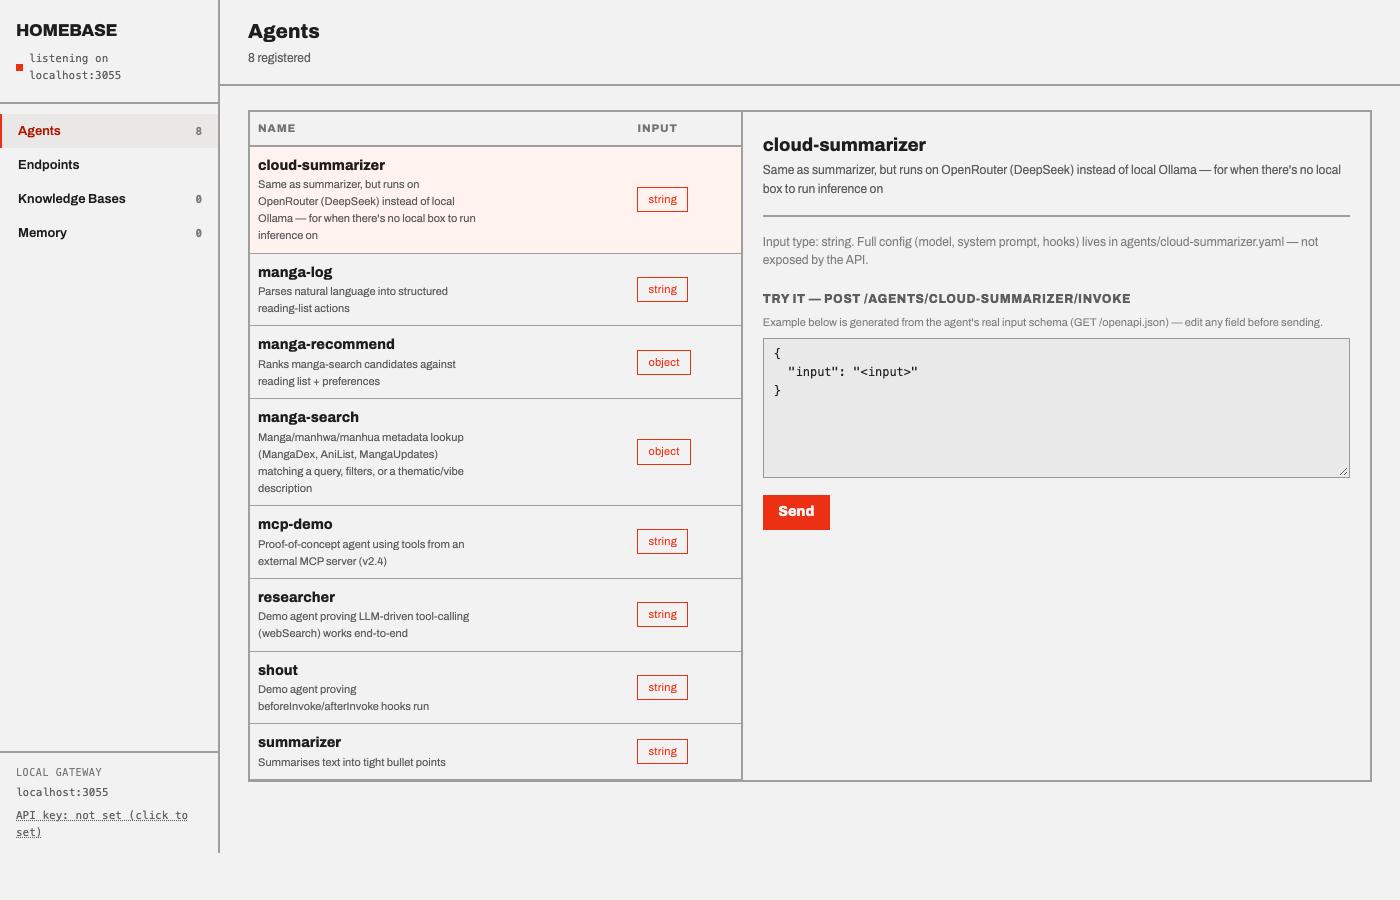
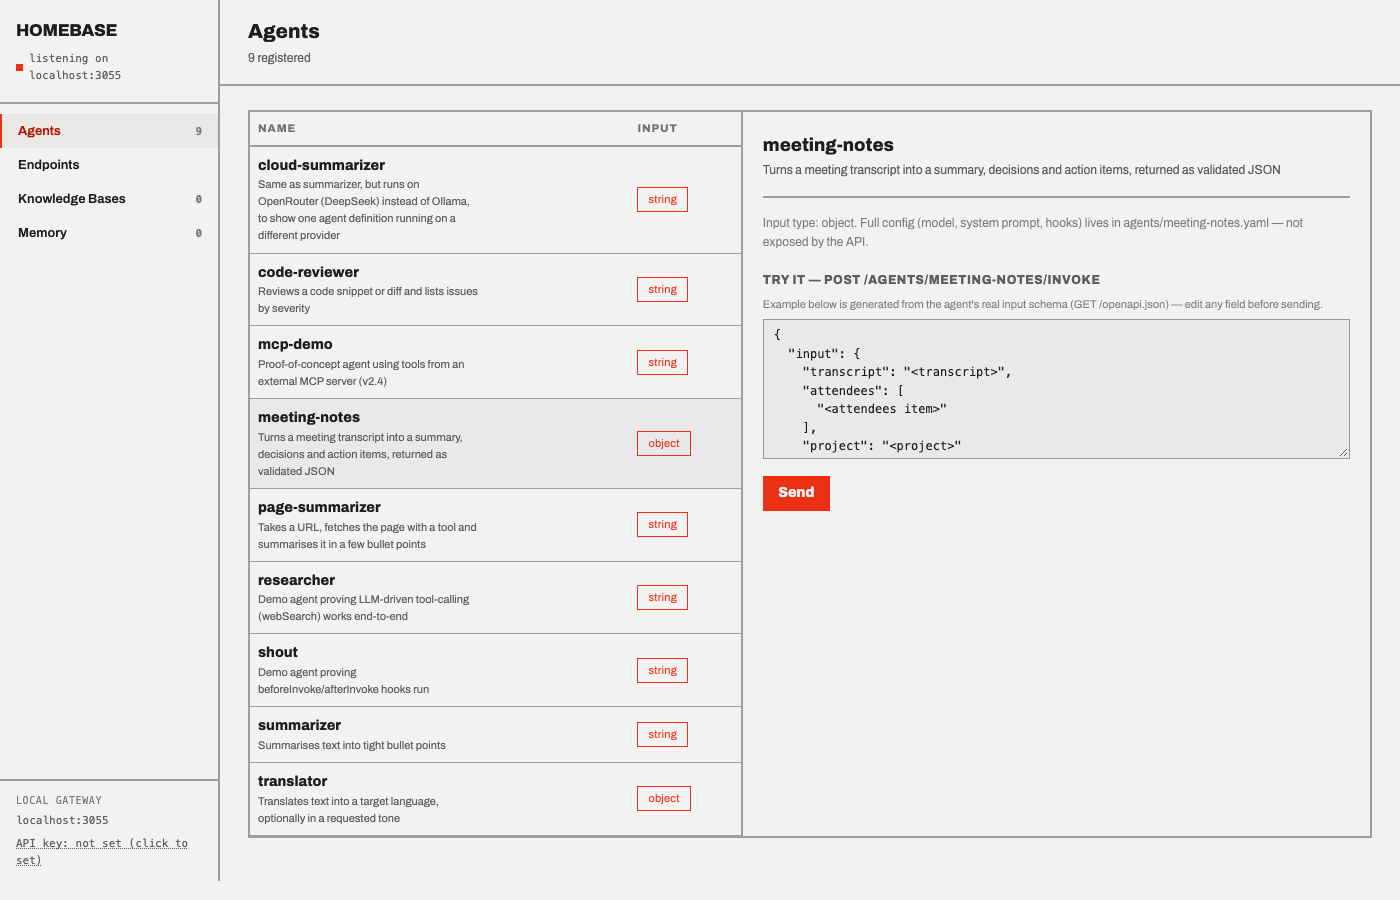
Move manga agents to examples/ and add general-purpose demo agents
Adds translator, code-reviewer, meeting-notes (with a validated-JSON
afterInvoke hook and tests) and page-summarizer (tool-calling). The manga
agents and their tool now live in examples/manga as a worked example of a
real app built on Homebase. Docs, README and the dashboard screenshot are
updated to match.

diff --git a/src/config.test.ts b/src/config.test.ts
@@ -38,7 +38,7 @@ describe("inputPayloadSchema — type: messages", () => {
 });
 
 describe("inputPayloadSchema — type: object, flat shorthand", () => {
-  // Real shape from agents/manga-search.yaml
+  // Real shape from examples/manga/manga-search.yaml
   const schema = inputPayloadSchema({
     type: "object",
     shape: { query: "string", genre: "string", format: "string", limit: "number" },
@@ -145,7 +145,7 @@ describe("inputPayloadSchema — type: object, array-of-object field", () => {
 });
 
 describe("inputPayloadSchema — deeply nested: array of object containing another array", () => {
-  // Real shape from agents/manga-recommend.yaml's `candidates` field.
+  // Real shape from examples/manga/manga-recommend.yaml's `candidates` field.
   const schema = inputPayloadSchema({
     type: "object",
     shape: {
@@ -177,7 +177,7 @@ describe("inputPayloadSchema — deeply nested: array of object containing anoth
   });
 });
 
-describe("inputPayloadSchema — real fixture: agents/manga-recommend.yaml's full shape", () => {
+describe("inputPayloadSchema — real fixture: examples/manga/manga-recommend.yaml's full shape", () => {
   const shape: NonNullable<Extract<AgentConfig["input"], { type: "object" }>["shape"]> = {
     query: "string",
     candidates: {

diff --git a/tools/fetchPageText.ts b/tools/fetchPageText.ts
@@ -3,7 +3,7 @@ import { z } from "zod";
 
 const MAX_CHARS = 8000;
 
-/** Crude HTML-to-text: strips script/style blocks, tags, and collapses whitespace. Good enough for T&Cs pages — not a real readability extractor. */
+/** Crude HTML-to-text: strips script/style blocks, tags, and collapses whitespace. Good enough for simple pages — not a real readability extractor. */
 const stripHtml = (html: string): string =>
   html
     .replace(/<script[\s\S]*?<\/script>/gi, " ")
@@ -15,9 +15,9 @@ const stripHtml = (html: string): string =>
     .trim();
 
 /**
- * Generic URL-to-text tool — no domain awareness, unlike tools/mangaMetadataSearch.ts. Used by
+ * Generic URL-to-text tool — no domain awareness, unlike the domain-specific tools in examples/. Used by
  * agents that should accept a URL instead of pasted text. Truncates long
- * pages (T&Cs pages are usually short; this is a safety cap, not a real limit in practice).
+ * pages (this is a safety cap against huge pages, not a precise limit).
  */
 export const fetchPageText = tool({
   description: "Fetches a URL and returns its visible page text (HTML stripped), truncated to a safe length.",

diff --git a/agents/meeting-notes.hooks.test.ts b/agents/meeting-notes.hooks.test.ts
@@ -1,0 +1,27 @@
+import { describe, expect, it } from "vitest";
+import { validateNotes } from "./meeting-notes.hooks.js";
+
+const valid = {
+  summary: "Agreed to ship on Friday.",
+  decisions: ["Ship on Friday"],
+  actionItems: [{ owner: "Sam", task: "Cut the release", due: null }],
+};
+
+describe("meeting-notes afterInvoke (validateNotes)", () => {
+  it("returns well-formed notes as compact JSON", () => {
+    expect(JSON.parse(validateNotes(JSON.stringify(valid, null, 2)))).toEqual(valid);
+  });
+
+  it("strips a code fence the model added around the JSON", () => {
+    const fenced = "```json\n" + JSON.stringify(valid) + "\n```";
+    expect(JSON.parse(validateNotes(fenced))).toEqual(valid);
+  });
+
+  it("throws on JSON that does not match the contract", () => {
+    expect(() => validateNotes(JSON.stringify({ summary: "x" }))).toThrow();
+  });
+
+  it("throws on output that is not JSON", () => {
+    expect(() => validateNotes("Here are your notes!")).toThrow();
+  });
+});

diff --git a/agents/meeting-notes.hooks.ts b/agents/meeting-notes.hooks.ts
@@ -1,0 +1,29 @@
+import { z } from "zod";
+
+const notesSchema = z.object({
+  summary: z.string(),
+  decisions: z.array(z.string()),
+  actionItems: z.array(
+    z.object({
+      owner: z.string(),
+      task: z.string(),
+      due: z.string().nullable(),
+    }),
+  ),
+});
+
+/**
+ * Homebase does no schema validation on an agent's raw text output, so an
+ * agent whose contract is "valid JSON of this shape" checks it here. Models
+ * sometimes wrap JSON in a code fence; strip that, then parse and validate.
+ * A failure throws, which surfaces as a clean 500 (HookError) instead of
+ * handing the caller output that doesn't match the contract.
+ */
+export const validateNotes = (output: string): string => {
+  const text = output.trim().replace(/^```(?:json)?\s*/i, "").replace(/\s*```$/, "");
+  return JSON.stringify(notesSchema.parse(JSON.parse(text)));
+};
+
+export default {
+  afterInvoke: validateNotes,
+};

diff --git a/examples/manga/manga-recommend.hooks.ts b/examples/manga/manga-recommend.hooks.ts
@@ -1,4 +1,4 @@
-import type { InvokeContext } from "../src/hooks.js";
+import type { InvokeContext } from "../../src/hooks.js";
 
 interface RankedCandidate {
   title?: unknown;
@@ -6,10 +6,10 @@ interface RankedCandidate {
 }
 
 /**
- * Deterministic backstop for the reading-list exclusion ticket: qwen2.5:14b
+ * Deterministic backstop for the reading-list exclusion rule: qwen2.5:14b
  * doesn't reliably comply with "never include a candidate already in
  * readingList" from prompting alone (reproduced 0/8 across two different
- * prompt strategies — see the ticket). Rather than keep chasing prompt
+ * prompt strategies). Rather than keep chasing prompt
  * wording, afterInvoke strips any readingList match out of the model's
  * output after the fact — the model still does the actual ranking/scoring
  * (it's fine at that part), this just guarantees the hard constraint holds

diff --git a/examples/manga/manga-recommend.hooks.test.ts b/examples/manga/manga-recommend.hooks.test.ts
@@ -1,5 +1,5 @@
 import { describe, expect, it } from "vitest";
-import type { InvokeContext } from "../src/hooks.js";
+import type { InvokeContext } from "../../src/hooks.js";
 import hooks from "./manga-recommend.hooks.js";
 
 const ctx = (readingList: { title: string }[]): InvokeContext =>

diff --git a/examples/manga/manga-search.hooks.ts b/examples/manga/manga-search.hooks.ts
@@ -1,0 +1,5 @@
+import { mangaMetadataSearch } from "./tools/mangaMetadataSearch.js";
+
+export default {
+  tools: { mangaMetadataSearch },
+};

diff --git a/agents/page-summarizer.hooks.ts b/agents/page-summarizer.hooks.ts
@@ -1,0 +1,5 @@
+import { fetchPageText } from "../tools/fetchPageText.js";
+
+export default {
+  tools: { fetchPageText },
+};

diff --git a/docs/tools-and-hooks.md b/docs/tools-and-hooks.md
@@ -27,9 +27,9 @@ Runs after input validation, before the input is turned into model messages. Ret
 
 Runs on the model's full text output, **plain (non-streaming) path only** — see `docs/invoke.md` for why streaming skips it. Return value replaces the response's `output` field.
 
-**Pattern: deterministic backstop for a constraint the model won't reliably follow.** Small local models don't always comply with hard constraints from prompting alone, even with an explicit rule and a worked example — `agents/manga-recommend.hooks.ts` is a live example: the system prompt tells the model to never output a candidate already in the user's reading list, but that alone measured 0/8 compliance on a repeatable test case. Rather than keep tuning the prompt, `afterInvoke` parses the model's JSON output (using `ctx.input` to see the original `readingList`) and deterministically strips any match — the model still does the actual ranking/scoring, the hook just guarantees the hard constraint holds regardless of what the model does. Worth reaching for whenever a constraint is easy to check in code but unreliable to enforce purely through prompting.
+**Pattern: deterministic backstop for a constraint the model won't reliably follow.** Small local models don't always comply with hard constraints from prompting alone, even with an explicit rule and a worked example — `examples/manga/manga-recommend.hooks.ts` is a live example: the system prompt tells the model to never output a candidate already in the user's reading list, but that alone measured 0/8 compliance on a repeatable test case. Rather than keep tuning the prompt, `afterInvoke` parses the model's JSON output (using `ctx.input` to see the original `readingList`) and deterministically strips any match — the model still does the actual ranking/scoring, the hook just guarantees the hard constraint holds regardless of what the model does. Worth reaching for whenever a constraint is easy to check in code but unreliable to enforce purely through prompting.
 
-**Pattern: validating a JSON-output agent's shape.** Homebase itself does no schema validation or retry on an agent's raw text output (a deliberate scope decision — see the "structured-output validation" ticket's design doc: no genuine malformed-JSON failure has actually been observed, only semantic ones like the exclusion bug above, which retrying wouldn't fix anyway). If an agent's contract depends on valid JSON matching a specific shape, validate it in `afterInvoke` — parse, check against a Zod schema, throw on failure:
+**Pattern: validating a JSON-output agent's shape.** Homebase itself does no schema validation or retry on an agent's raw text output (a deliberate scope decision: no genuine malformed-JSON failure has been observed, only semantic ones like the exclusion bug above, which retrying wouldn't fix anyway). If an agent's contract depends on valid JSON matching a specific shape, validate it in `afterInvoke` — parse, check against a Zod schema, throw on failure:
 
 ```ts
 const outputSchema = z.array(z.object({ action: z.string(), title: z.string(), /* ... */ }));
@@ -67,8 +67,8 @@ Two behavioral consequences of declaring `tools`, both driven from `src/provider
 
 ```
 tools/
-├── webSearch.ts           # generic DuckDuckGo-backed search — agents/researcher.yaml
-└── mangaMetadataSearch.ts # manga/manhwa/manhua metadata (MangaDex, AniList, MangaUpdates) — agents/manga-search.yaml
+├── webSearch.ts      # generic DuckDuckGo-backed search — agents/researcher.yaml
+└── fetchPageText.ts  # fetch a URL and return its visible text — agents/page-summarizer.yaml
 ```
 
 Any agent's `hooks.ts` can import any file in `tools/` — there's no per-agent tool registration beyond the import.
@@ -83,16 +83,11 @@ export const webSearch = tool({
 });
 ```
 
-**Known limitation:** DuckDuckGo's Instant Answer API is sparse for anything outside broad encyclopedic topics (it often returns no abstract text for niche or specific queries, and never returns a source URL) — and its HTML search endpoint (a tempting keyless alternative) hard-blocks with a 403 after a single request, so it's not a viable swap either. Fine for `researcher`'s demo purpose; **not** a good fit for anything needing real, domain-specific grounding — see `tools/mangaMetadataSearch.ts` below for how `manga-search` moved off it.
+**Known limitation:** DuckDuckGo's Instant Answer API is sparse for anything outside broad encyclopedic topics (it often returns no abstract text for niche or specific queries, and never returns a source URL) — and its HTML search endpoint (a tempting keyless alternative) hard-blocks with a 403 after a single request, so it's not a viable swap either. Fine for `researcher`'s demo purpose; **not** a good fit for anything needing real, domain-specific grounding — see `examples/manga/tools/mangaMetadataSearch.ts` for how a domain-specific agent moved off it.
 
-**`tools/mangaMetadataSearch.ts`**: purpose-built replacement for `manga-search`, after `webSearch` was confirmed both non-functional (DuckDuckGo returning empty responses in practice) and a poor fit even when working (no manga/anime awareness). Three sources, tried in order until one returns results:
-1. [MangaDex](https://api.mangadex.org) — strongest niche/indie coverage, title-matched search.
-2. [AniList](https://graphql.anilist.co) — broader mainstream coverage, also title-matched.
-3. [MangaUpdates](https://api.mangaupdates.com) — full-text search over descriptions, not titles. This is the one that actually answers thematic/vibe queries ("villainess otome revenge") that title-only matching misses entirely — added after that exact gap was found and confirmed via direct API calls. No content-rating filter exists on this endpoint (unlike MangaDex's), so explicit results are excluded by genre tag instead, to keep this source at the same content bar as the other two. Its pagination parameter (`perpage`) is also silently ignored by the live API (confirmed empirically) — results are truncated client-side instead.
+**A domain-specific tool.** `examples/manga/tools/mangaMetadataSearch.ts` is a purpose-built replacement for `webSearch` for one agent. It queries three public sources (MangaDex, AniList and MangaUpdates) in order until one returns results, and normalises their different status and format vocabularies into one shape, so the agent's prompt doesn't need to know which backend answered. It is a good template for "the generic tool doesn't fit this domain, so build a purpose-built one".
 
-All three sources' differing status vocabularies (`ongoing`/`hiatus`/... vs `RELEASING`/`HIATUS`/...) and format signals (origin language/country vs. a direct format field) are normalized inside the tool into one `format`/`status` shape, so the calling agent's system prompt doesn't need to know which backend actually answered. Cover art (`coverUrl`) is extracted from MangaDex and AniList; MangaUpdates provides it natively. A good template for "generic tool doesn't fit this agent's domain" — build (or find) a purpose-built one instead of stretching the generic tool further.
-
-**Known model-behavior quirk observed during testing:** on rare occasions, especially in a multi-step tool-call loop against a query with no real results, the model appears to lose track of the original query partway through — likely `qwen2.5:14b`'s relatively small context window (4096 tokens, per `ollama ps`) getting crowded by several rounds of verbose real tool results. Not something these tools or Homebase's invoke pipeline can fix directly (the tool itself returns correct, verified results every time when called with the actual intended query — confirmed via direct, non-agent testing); flagged here as an observed limitation of small local models under extended tool loops, consistent with the general "model decides whether/how to use tools" unreliability noted above.
+**Limitation of small models.** In a multi-step tool-call loop, small local models can lose track of the original query when several verbose tool results crowd their context window. The tools return correct results when called directly; this is a limit of small models under long tool loops, consistent with the "model decides whether to use tools" caveat above.
 
 ## Adding a new tool
 

diff --git a/docs/rag.md b/docs/rag.md
@@ -4,7 +4,7 @@ Deep reference for the `/kb/*` routes (`src/rag.ts`), added in v2.2 and extended
 
 ## What it's for
 
-Homebase-hosted retrieval: apps create named knowledge bases (e.g. `"manga-kb"`, `"homebase-docs-kb"`), push documents in, and query by similarity search. KBs are namespaced by name — no cross-KB search.
+Homebase-hosted retrieval: apps create named knowledge bases (e.g. `"notes-kb"`, `"homebase-docs-kb"`), push documents in, and query by similarity search. KBs are namespaced by name — no cross-KB search.
 
 ## Storage
 
@@ -25,11 +25,11 @@ curl localhost:3000/kb
 ```
 
 ```json
-{ "kbs": [{ "name": "manga-kb", "embeddingModel": "voyage-4-lite", "dimension": 1024, "documentCount": 12, "chunkCount": 34 }] }
+{ "kbs": [{ "name": "notes-kb", "embeddingModel": "voyage-4-lite", "dimension": 1024, "documentCount": 12, "chunkCount": 34 }] }
 ```
 
 ```bash
-curl -X DELETE localhost:3000/kb/manga-kb
+curl -X DELETE localhost:3000/kb/notes-kb
 # { "deleted": true }
 ```
 
@@ -38,9 +38,9 @@ Drops the KB's dedicated vector table, every document/chunk row, and its `kb_con
 ## Add a document
 
 ```bash
-curl localhost:3000/kb/manga-kb/documents \
+curl localhost:3000/kb/notes-kb/documents \
   -X POST -H 'content-type: application/json' \
-  -d '{"text":"Solo Leveling is a manhwa about...", "metadata":{"title":"Solo Leveling","genre":"action"}}'
+  -d '{"text":"Onboarding guide: how new teammates get set up...", "metadata":{"title":"Onboarding guide","category":"guide"}}'
 ```
 
 ```json
@@ -60,7 +60,7 @@ All of a document's chunks are embedded in **one batched call** (`embedTexts`, s
 ## List documents
 
 ```bash
-curl "localhost:3000/kb/manga-kb/documents?limit=50&offset=0"
+curl "localhost:3000/kb/notes-kb/documents?limit=50&offset=0"
 ```
 
 ```json
@@ -75,9 +75,9 @@ curl "localhost:3000/kb/manga-kb/documents?limit=50&offset=0"
 ## Update a document
 
 ```bash
-curl localhost:3000/kb/manga-kb/documents/1 \
+curl localhost:3000/kb/notes-kb/documents/1 \
   -X PUT -H 'content-type: application/json' \
-  -d '{"text":"...updated synopsis...", "metadata":{"title":"Solo Leveling","genre":"action","status":"completed"}}'
+  -d '{"text":"...updated guide text...", "metadata":{"title":"Onboarding guide","category":"guide","status":"reviewed"}}'
 ```
 
 ```json
@@ -91,7 +91,7 @@ This is the "re-sync a stale entry" path — there's no diffing, an update fully
 ## Delete a document
 
 ```bash
-curl -X DELETE localhost:3000/kb/manga-kb/documents/1
+curl -X DELETE localhost:3000/kb/notes-kb/documents/1
 # { "deleted": true }
 ```
 
@@ -100,9 +100,9 @@ Removes the document row, its chunks, and their vectors. `404` if the KB or docu
 ## Search
 
 ```bash
-curl localhost:3000/kb/manga-kb/search \
+curl localhost:3000/kb/notes-kb/search \
   -X POST -H 'content-type: application/json' \
-  -d '{"query":"strongest hunter leveling system","topK":5,"filter":{"genre":"action"},"maxDistance":0.85}'
+  -d '{"query":"how do I set up my laptop","topK":5,"filter":{"category":"guide"},"maxDistance":0.85}'
 ```
 
 ```json
@@ -111,7 +111,7 @@ curl localhost:3000/kb/manga-kb/search \
 
 - `query` (required)
 - `topK` (optional, default 5, max 500)
-- `filter` (optional): **exact-match** key/value pairs checked against each result's `metadata`, e.g. `{"genre":"action"}`. No range queries, no partial match, no OR — just equality on every key given, and no array-contains (a `genres: string[]` metadata value can't be matched this way — filter client-side on results if you need that). Applied *after* the vector similarity search (sqlite-vec has no notion of metadata).
+- `filter` (optional): **exact-match** key/value pairs checked against each result's `metadata`, e.g. `{"category":"guide"}`. No range queries, no partial match, no OR — just equality on every key given, and no array-contains (a `tags: string[]` metadata value can't be matched this way — filter client-side on results if you need that). Applied *after* the vector similarity search (sqlite-vec has no notion of metadata).
 - `maxDistance` (optional, no default): drops any result whose distance exceeds this. **Why no default**: sqlite-vec's KNN search always returns the `topK` nearest neighbors even when none of them are actually relevant to the query — there's no built-in "not relevant enough" cutoff, so a query with no real matches still returns *something* unless you supply a threshold. What counts as "relevant" is empirical, though — it depends on the embedding model and the KB's actual content, so Homebase doesn't guess one; calibrate by looking at real distances for known-relevant vs. known-irrelevant queries against your own KB. (Earlier calibration numbers came from a different embedding model and no longer apply; recalibrate against your own Voyage-embedded content.)
 
 **Results are always deduplicated to one per document** — the single best (lowest-distance) matching chunk. A document with several chunks that all match a query would otherwise crowd out `topK` with repeats of itself, which was never useful (this used to be something every consumer had to re-solve client-side; now it's Homebase's job). `topK` counts *documents*, not chunks.

diff --git a/README.md b/README.md
@@ -45,8 +45,9 @@ flowchart LR
 
 ```
 src/                core service (server, registry, invoke, providers, rag, memory, mcp, openapi)
-agents/             example agents: YAML + optional hooks
+agents/             built-in agents: YAML + optional hooks (translator, meeting-notes, code-reviewer, page-summarizer, ...)
 tools/              shared AI SDK tools usable from any agent's hooks
+examples/manga/     a real app's agents (search, recommend, log) kept as a worked example
 mcp-servers/        small standalone MCP server used to demo the MCP client
 public/dashboard/   static dashboard (no build step)
 homebase-client/    typed client package for apps that call Homebase
@@ -110,7 +111,7 @@ npm run typecheck
 npm run test:unit
 ```
 
-`npm run test:unit` is what CI runs: 49 unit tests (config/schema validation, invoke pipeline, registry isolation, RAG chunking and logic, memory, MCP cleanup, agent hooks) that use mocked models and need no network or keys. `homebase-client` has its own typecheck, 7 tests and build, also run in CI.
+`npm run test:unit` is what CI runs: 53 unit tests (config/schema validation, invoke pipeline, registry isolation, RAG chunking and logic, memory, MCP cleanup, agent hooks) that use mocked models and need no network or keys. `homebase-client` has its own typecheck, 7 tests and build, also run in CI.
 
 `*.integration.test.ts` (currently the RAG tests) call the real Voyage embeddings API and need `VOYAGE_API_KEY`. They are **not** run in CI, and `npm test` includes them. Nothing in CI exercises a live model call, so provider behaviour (Ollama, OpenRouter, Voyage) is verified manually only.
 
@@ -128,7 +129,7 @@ npm run test:unit
 
 ## Status
 
-A working personal project built for single-user, single-machine use. Auth is a single shared bearer token; there is no multi-tenancy, rate limiting or request logging. The example agents in `agents/` (manga lookup, summarizers, an MCP demo) exist to exercise the platform. The macOS menu-bar app in `toolbar-app/` is macOS-only and not built in CI.
+A working personal project built for single-user, single-machine use. Auth is a single shared bearer token; there is no multi-tenancy, rate limiting or request logging. The agents in `agents/` (translator, meeting notes, code reviewer, page summariser, summarisers, an MCP demo) exist to exercise the platform, and `examples/manga/` holds the agents of a real app built on it. The macOS menu-bar app in `toolbar-app/` is macOS-only and not built in CI.
 
 ## License
 
